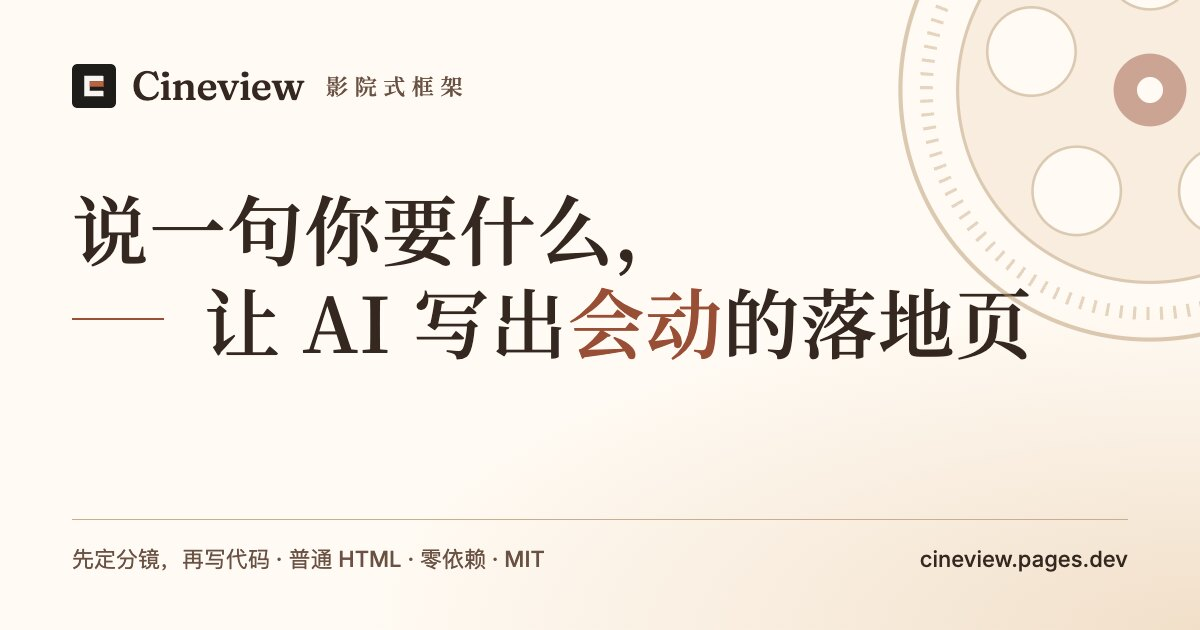
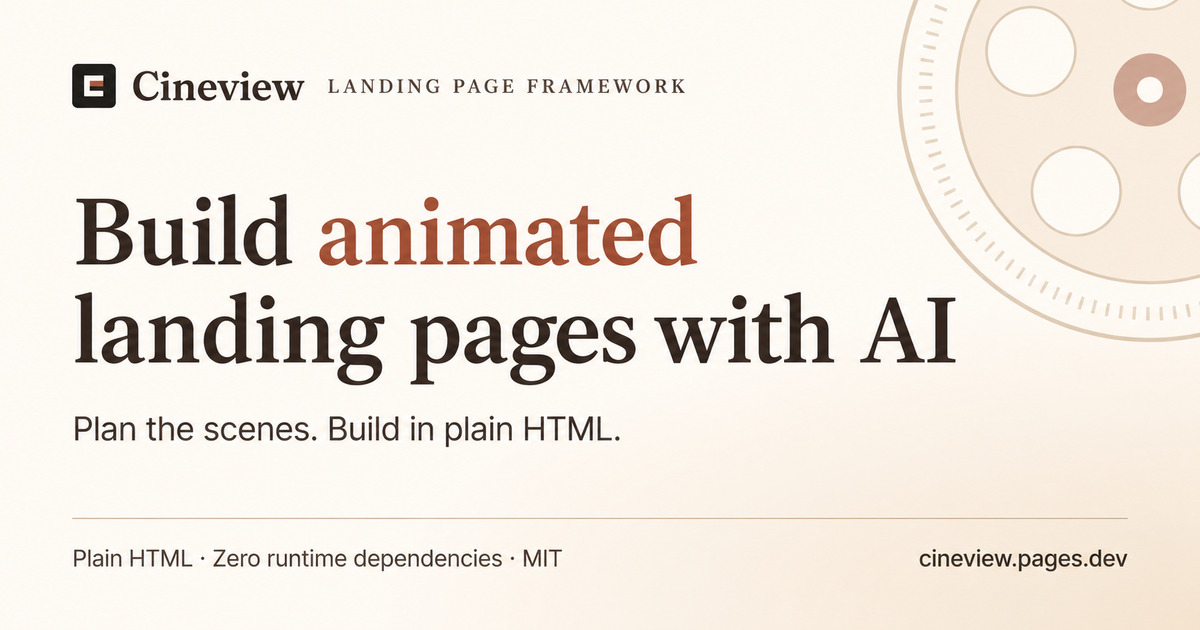
fix(site): use an English default share cover (#21)
Use the English 1200x630 share cover across five pages and update homepage Open Graph copy.

diff --git a/site/public/index.html b/site/public/index.html
@@ -6,14 +6,14 @@
     <title>Cineview</title>
     <meta property="og:type" content="website" />
     <meta property="og:site_name" content="Cineview" />
-    <meta property="og:locale" content="zh_CN" />
+    <meta property="og:locale" content="en_US" />
     <meta property="og:url" content="https://cineview.pages.dev/" />
-    <meta property="og:title" content="Cineview · 让 AI 写出会动的落地页" />
-    <meta property="og:description" content="说一句你要什么，AI 先和你定好分镜，再用普通 HTML 写出跟着滚动播放的落地页。零依赖，MIT。" />
-    <meta property="og:image" content="https://cineview.pages.dev/og.jpg" />
+    <meta property="og:title" content="Cineview · Build animated landing pages with AI" />
+    <meta property="og:description" content="Plan scenes with AI, then build animated landing pages in plain HTML. Zero runtime dependencies. MIT licensed." />
+    <meta property="og:image" content="https://cineview.pages.dev/og.jpg?v=en-20261031" />
     <meta property="og:image:width" content="1200" />
     <meta property="og:image:height" content="630" />
-    <meta property="og:image:alt" content="Cineview：说一句你要什么，让 AI 写出会动的落地页" />
+    <meta property="og:image:alt" content="Cineview: Build animated landing pages with AI. Plan the scenes. Build in plain HTML." />
     <meta name="twitter:card" content="summary_large_image" />
     <meta name="twitter:creator" content="@AlienMu777" />
     <meta name="description" content="Cineview 影院式框架：以分镜落笔，为页面写出灵动的故事。让 AI 读懂框架与技能，直接设计、开发每一场。" />

diff --git a/site/public/cases/moto/index.html b/site/public/cases/moto/index.html
@@ -10,10 +10,10 @@
 <meta property="og:url" content="https://cineview.pages.dev/cases/moto/">
 <meta property="og:title" content="途岚 Wander 400 · Cineview 案例">
 <meta property="og:description" content="用 Cineview 做的街车发布页：视频随滚动播放、卡片叠上来。往下滚动看效果。">
-<meta property="og:image" content="https://cineview.pages.dev/og.jpg">
+<meta property="og:image" content="https://cineview.pages.dev/og.jpg?v=en-20261031">
 <meta property="og:image:width" content="1200">
 <meta property="og:image:height" content="630">
-<meta property="og:image:alt" content="Cineview：说一句你要什么，让 AI 写出会动的落地页">
+<meta property="og:image:alt" content="Cineview: Build animated landing pages with AI. Plan the scenes. Build in plain HTML.">
 <meta name="twitter:card" content="summary_large_image">
 <meta name="twitter:creator" content="@AlienMu777">
 <meta name="description" content="途岚 Wander 400，一台 400cc 复古街车。好骑，好看，2.98 万起。预约试驾，来骑一程。">

diff --git a/site/public/cases/conversations/index.html b/site/public/cases/conversations/index.html
@@ -11,10 +11,10 @@
 <meta property="og:url" content="https://cineview.pages.dev/cases/conversations/">
 <meta property="og:title" content="Two landing-page conversations · Cineview case · Cineview">
 <meta property="og:description" content="A wedding invitation page made with DeepSeek and a motorcycle intro page made with Claude Opus, with both planning conversations as they happened.">
-<meta property="og:image" content="https://cineview.pages.dev/og.jpg">
+<meta property="og:image" content="https://cineview.pages.dev/og.jpg?v=en-20261031">
 <meta property="og:image:width" content="1200">
 <meta property="og:image:height" content="630">
-<meta property="og:image:alt" content="Cineview：说一句你要什么，让 AI 写出会动的落地页">
+<meta property="og:image:alt" content="Cineview: Build animated landing pages with AI. Plan the scenes. Build in plain HTML.">
 <meta name="twitter:card" content="summary_large_image">
 <meta name="twitter:creator" content="@AlienMu777">
 <meta name="theme-color" content="#fffaf3">

diff --git a/site/public/cases/wedding/index.html b/site/public/cases/wedding/index.html
@@ -10,10 +10,10 @@
     <meta property="og:url" content="https://cineview.pages.dev/cases/wedding/" />
     <meta property="og:title" content="婚礼邀请函 · Cineview 案例" />
     <meta property="og:description" content="用 Cineview 做的婚礼邀请函：一页讲完日子、地点和送花。往下滚动看效果。" />
-    <meta property="og:image" content="https://cineview.pages.dev/og.jpg" />
+    <meta property="og:image" content="https://cineview.pages.dev/og.jpg?v=en-20261031" />
     <meta property="og:image:width" content="1200" />
     <meta property="og:image:height" content="630" />
-    <meta property="og:image:alt" content="Cineview：说一句你要什么，让 AI 写出会动的落地页" />
+    <meta property="og:image:alt" content="Cineview: Build animated landing pages with AI. Plan the scenes. Build in plain HTML." />
     <meta name="twitter:card" content="summary_large_image" />
     <meta name="twitter:creator" content="@AlienMu777" />
     <meta

diff --git a/site/docs-app.html b/site/docs-app.html
@@ -15,10 +15,10 @@
     <meta property="og:url" content="https://cineview.pages.dev/docs" />
     <meta property="og:title" content="Cineview Docs" />
     <meta property="og:description" content="Cineview documentation: scenes, timelines, elements and guides for the landing-page framework, with live examples." />
-    <meta property="og:image" content="https://cineview.pages.dev/og.jpg" />
+    <meta property="og:image" content="https://cineview.pages.dev/og.jpg?v=en-20261031" />
     <meta property="og:image:width" content="1200" />
     <meta property="og:image:height" content="630" />
-    <meta property="og:image:alt" content="Cineview：说一句你要什么，让 AI 写出会动的落地页" />
+    <meta property="og:image:alt" content="Cineview: Build animated landing pages with AI. Plan the scenes. Build in plain HTML." />
     <meta name="twitter:card" content="summary_large_image" />
     <meta name="twitter:creator" content="@AlienMu777" />
   </head>
